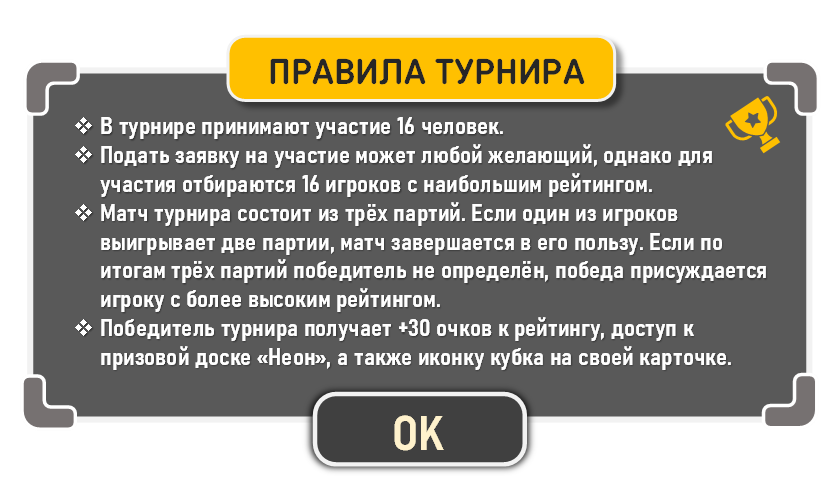
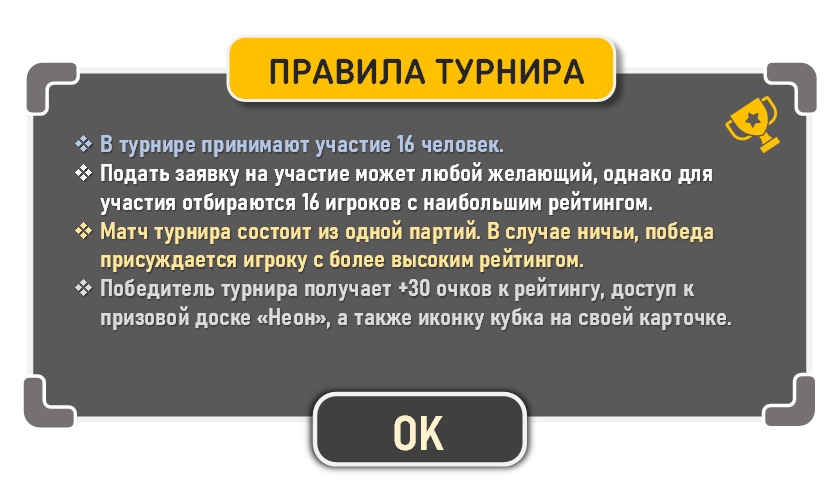
123

Changed region(s): [[0.0929, 0.2424, 0.9286, 0.7576]]

diff --git a/index.js b/index.js
@@ -6232,6 +6232,7 @@ lobby={
 	state_listener_on:0,
 	state_listener_timeout:0,
 	perm_room:'',
+	trnm_check_tm:0,
 
 	activate() {
 
@@ -6288,6 +6289,7 @@ lobby={
 
 		this.players_list_updated(this.global_players)
 
+		this.check_trnm_reg()
 		set_state({state:'o'})
 
 	},
@@ -6316,6 +6318,27 @@ lobby={
 		anim3.add(objects.pref_footer_cont, {y: [450, objects.pref_footer_cont.sy, 'linear']}, true, 0.2);
 		pref.activate();
 
+	},
+
+	async check_trnm_reg(){
+		
+		const tm=Date.now()
+		if (tm-this.trnm_check_tm<30_000) return
+		this.trnm_check_tm=tm
+		
+		const data=await fbs_once('trnm/state_data/state')
+		if (data==='reg')
+			some_process.blinkTrnm=()=>{objects.lobby_trnm_btn.alpha=0.5+0.5*Math.abs(Math.sin(TM.s*2))}
+		else{
+			some_process.blinkTrnm=()=>{}
+			objects.lobby_trnm_btn.alpha=0.5
+		}
+			
+	},
+	
+	process(){
+		
+		
 	},
 
 	players_list_updated(players) {